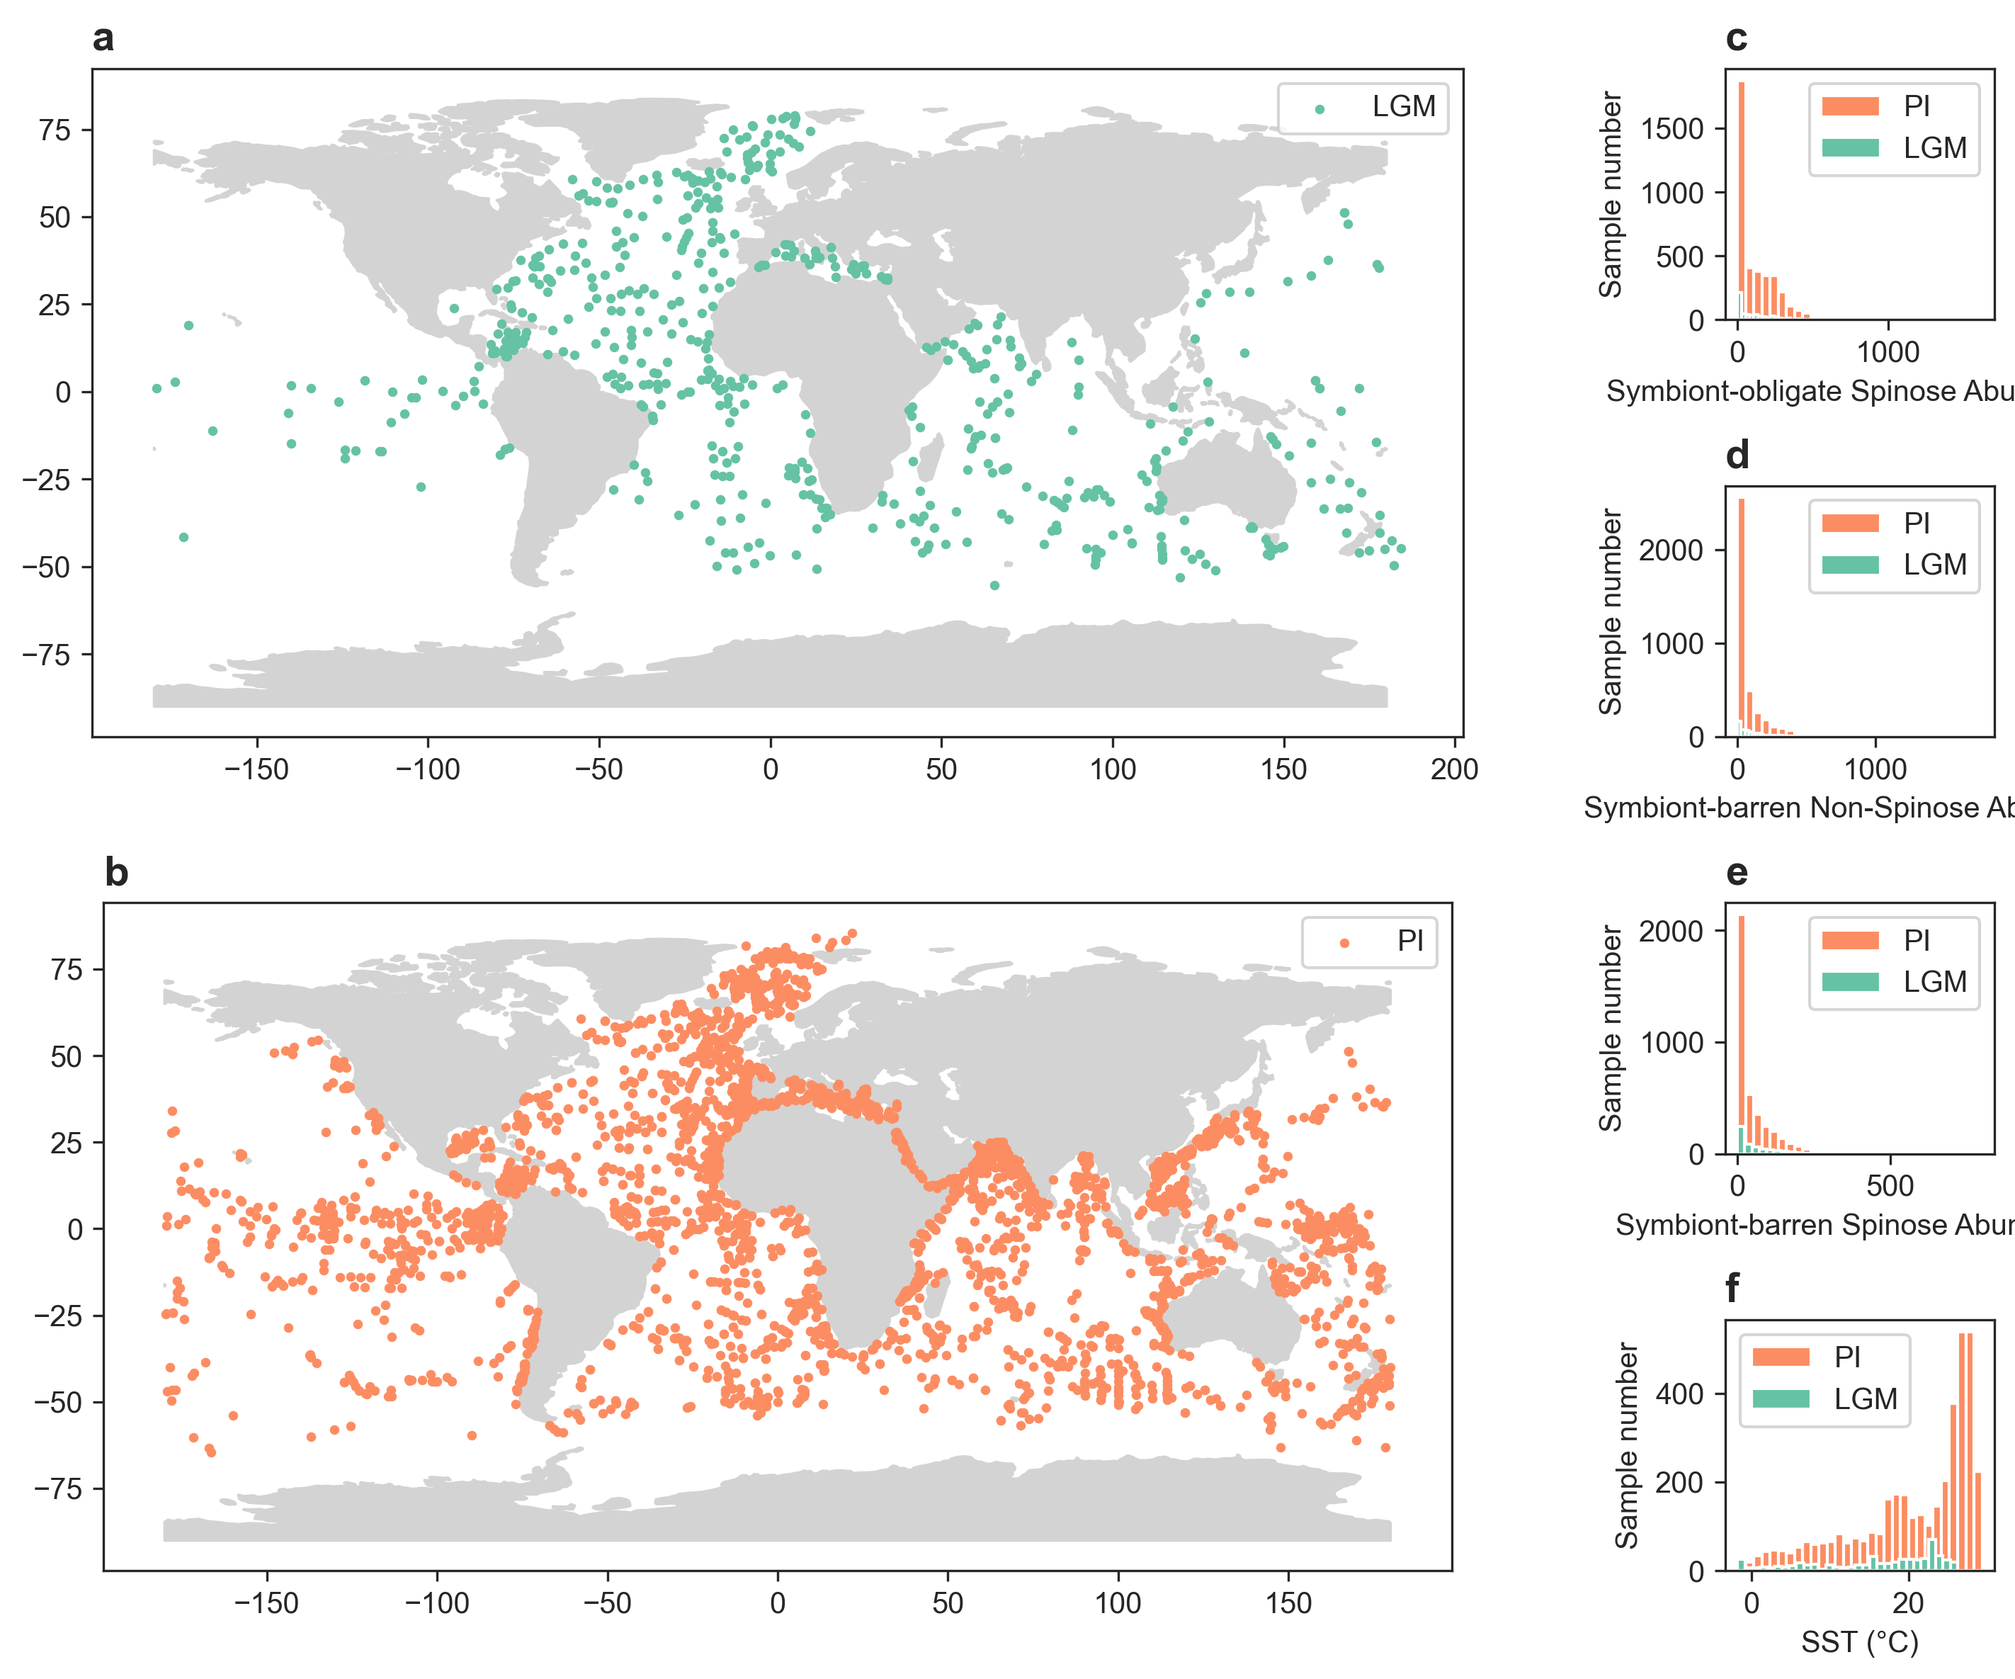
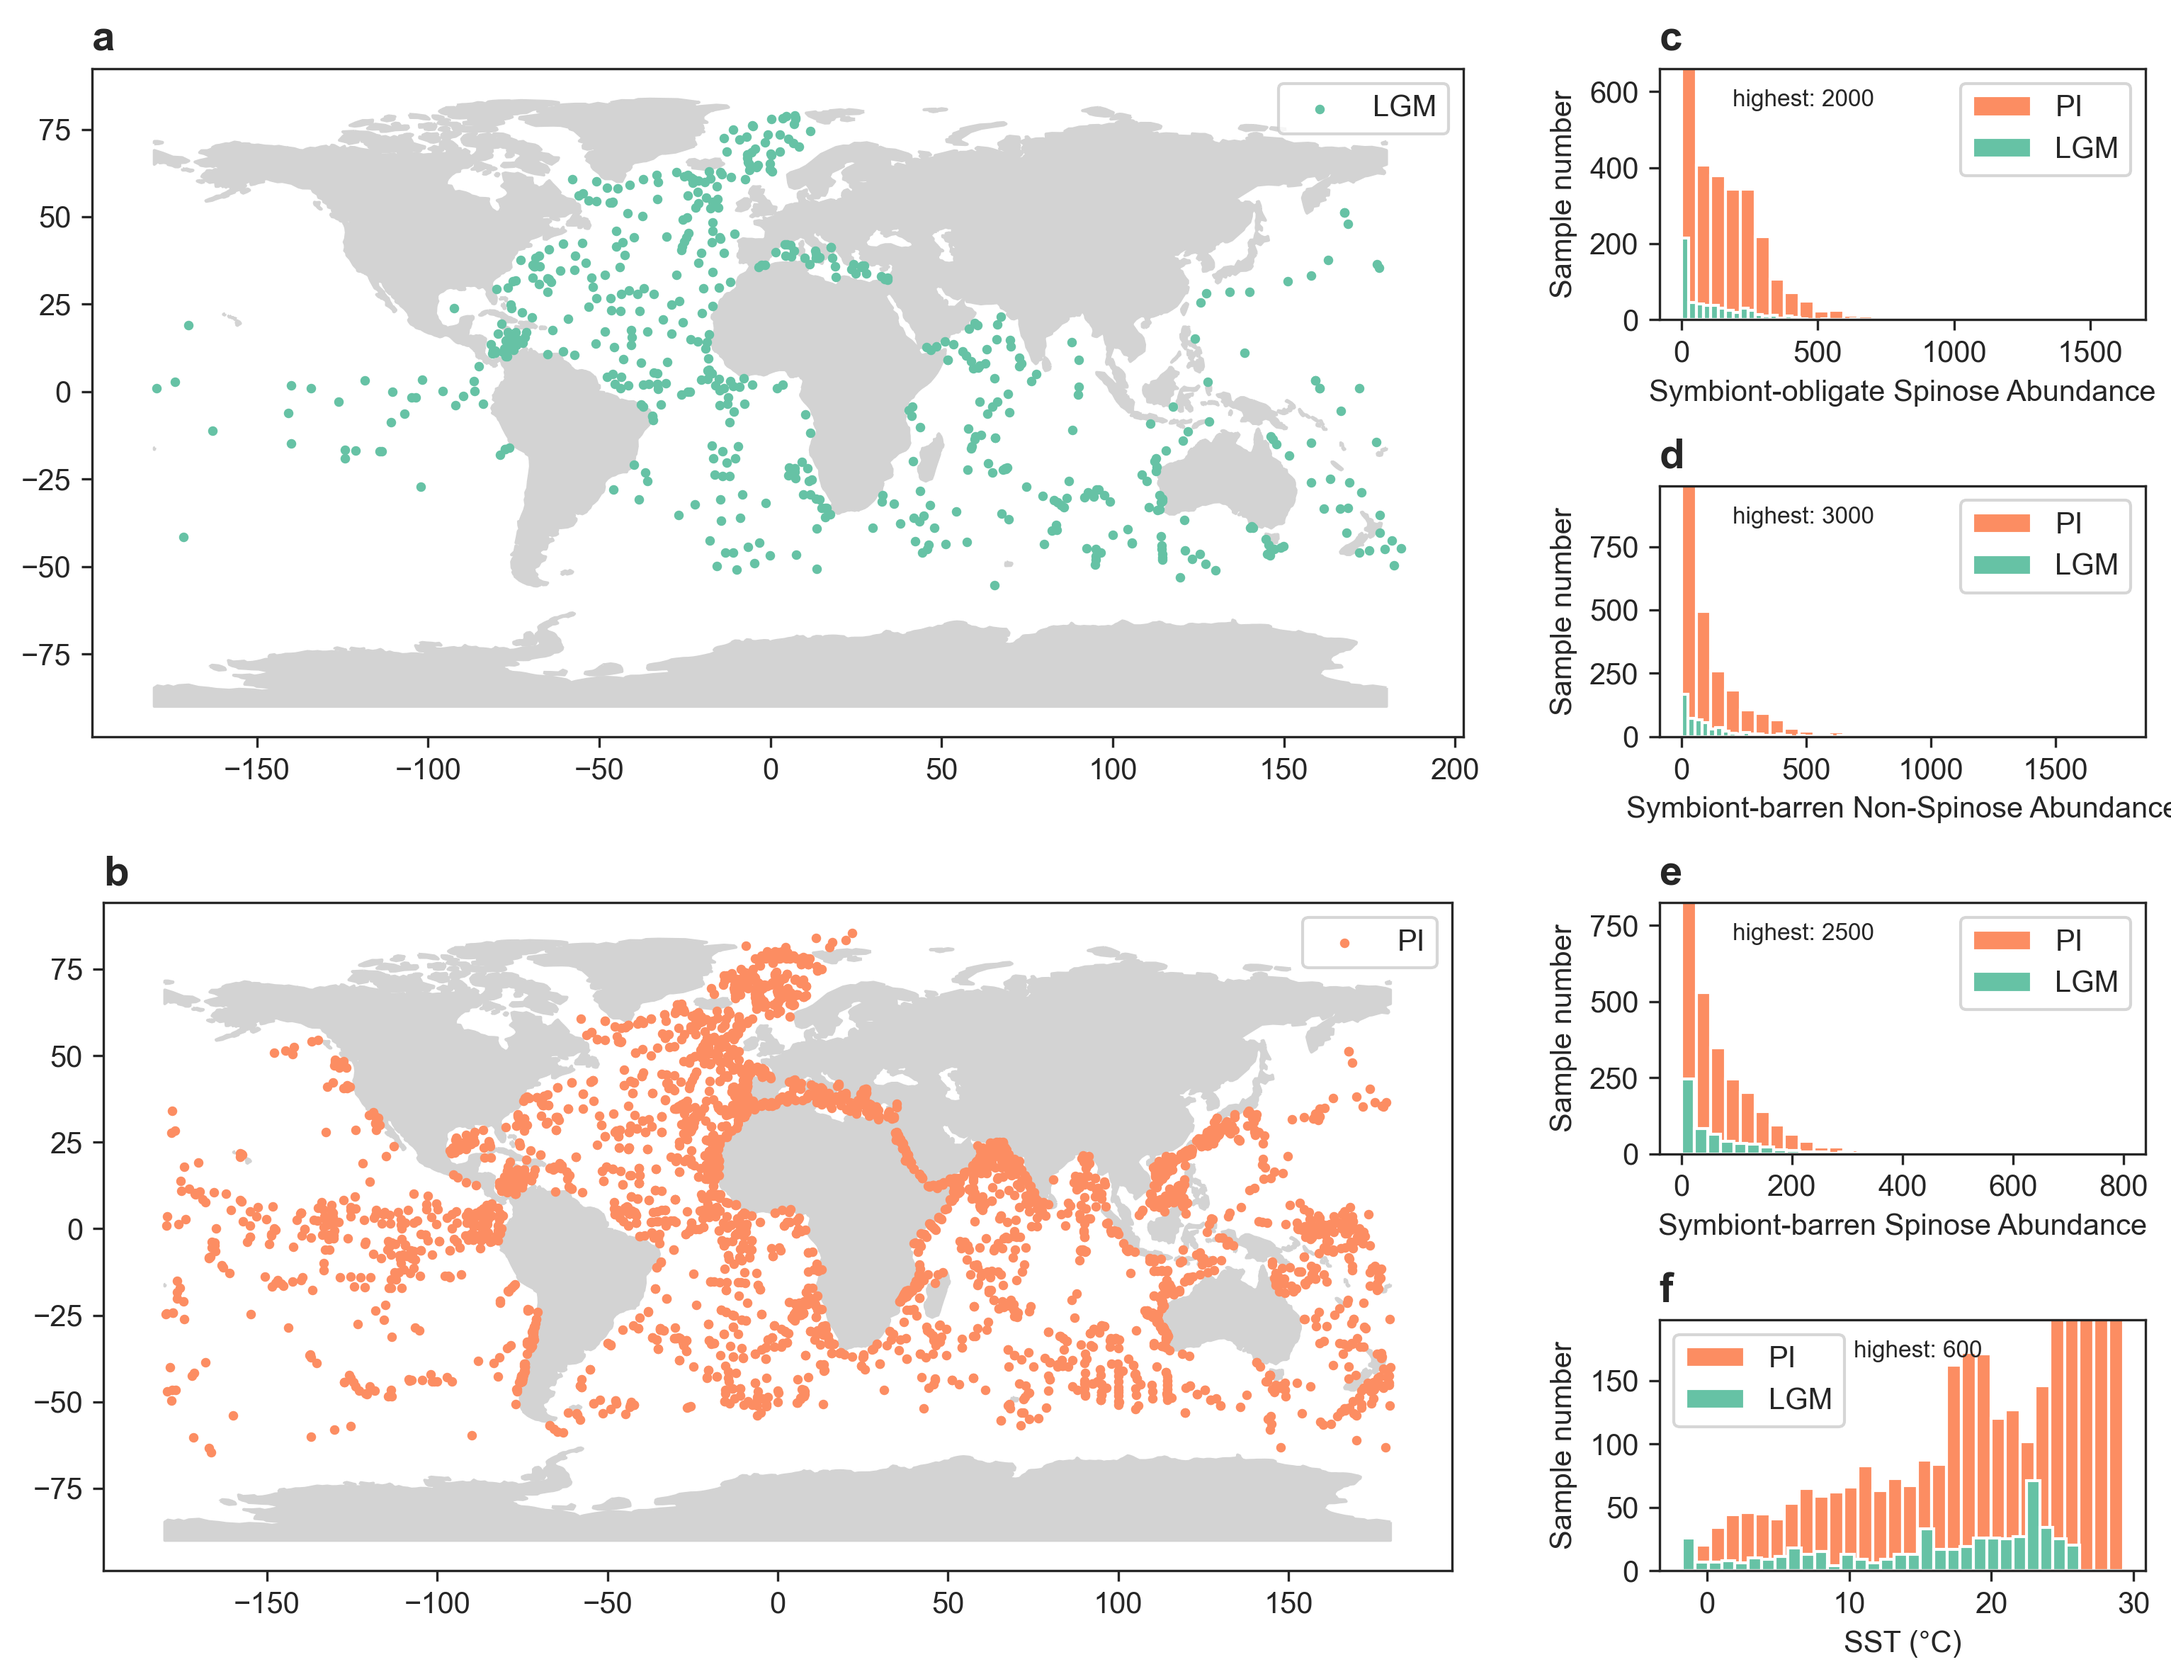
file: update histogram

diff --git a/code/sample_efforts.py b/code/sample_efforts.py
@@ -9,6 +9,7 @@ def pd_to_gpd(data):
     geometry = [Point(xy) for xy in zip(data['Longitude'], data['Latitude'])]
     gdf = gpd.GeoDataFrame(data, geometry=geometry, crs="EPSG:4326")
     return gdf
+from matplotlib.gridspec import GridSpec
 
 def main():
     "plot sample number over 1 degree bin (x axis)"
@@ -23,16 +24,20 @@ def main():
     pi_color = sns.color_palette("Set2")[1]
     lgm_color = sns.color_palette("Set2")[0]
 
-    fig = plt.figure(figsize=(10, 8), tight_layout=True)
-    gs = fig.add_gridspec(4, 5)
+    fig = plt.figure(figsize=(10.5, 8), tight_layout=True)
 
-    # Add the world map to the first subplot
-    ax_map1 = fig.add_subplot(gs[0:2, :4])
-    ax_map2 = fig.add_subplot(gs[2:4, :4])
-    ax_hs1 = fig.add_subplot(gs[0, 4:])
-    ax_hs2 = fig.add_subplot(gs[1, 4:])
-    ax_hs3 = fig.add_subplot(gs[2, 4:])
-    ax_hs4 = fig.add_subplot(gs[3, 4:])
+    # Create a GridSpec with 4 rows and 7 columns
+    ## 5:2 for map to histogram width ratio
+    gs = GridSpec(4, 7, figure=fig)
+
+    # Define the subplots
+    ax_map1 = plt.subplot(gs[0:2, :5])
+    ax_map2 = plt.subplot(gs[2:4, :5])
+    ax_hs1 = plt.subplot(gs[0, 5:])
+    ax_hs2 = plt.subplot(gs[1, 5:])
+    ax_hs3 = plt.subplot(gs[2, 5:])
+    ax_hs4 = plt.subplot(gs[3, 5:])
+
 
     ax_hs = [ax_hs1, ax_hs2, ax_hs3, ax_hs4]
     all_axs = [ax_map1, ax_map2, ax_hs1, ax_hs2, ax_hs3, ax_hs4]
@@ -51,10 +56,22 @@ def main():
     for i, col in enumerate(cols):
         ax_hs[i].hist(pi[col], bins=30, label='PI', color=pi_color)
         ax_hs[i].hist(lgm[col], bins=30, label='LGM', color=lgm_color)
+
+        ## get the location of highest bar of pi and normalise to 0-1
+        max_x = max(ax_hs[i].patches[:30], key=lambda p: p.get_height()).get_x()
+        max_y = max(ax_hs[i].get_yticks())
+
+        ax_hs[i].set_ylim(0, max_y*0.33)
+
+        ## add annotation for cutted off bars
+        annotation = 'highest: '+str(int(max_y))
+
         if col != 'SST':
             ax_hs[i].set_xlabel(col+' Abundance')
+            ax_hs[i].annotate(annotation, xy=(0.15, 0.85), xycoords='axes fraction', fontsize=8)
         else:
             ax_hs[i].set_xlabel(col+' (°C)')
+            ax_hs[i].annotate(annotation, xy=(0.4, 0.85), xycoords='axes fraction', fontsize=8)
         ax_hs[i].set_ylabel('Sample number')
         ax_hs[i].legend()
 
